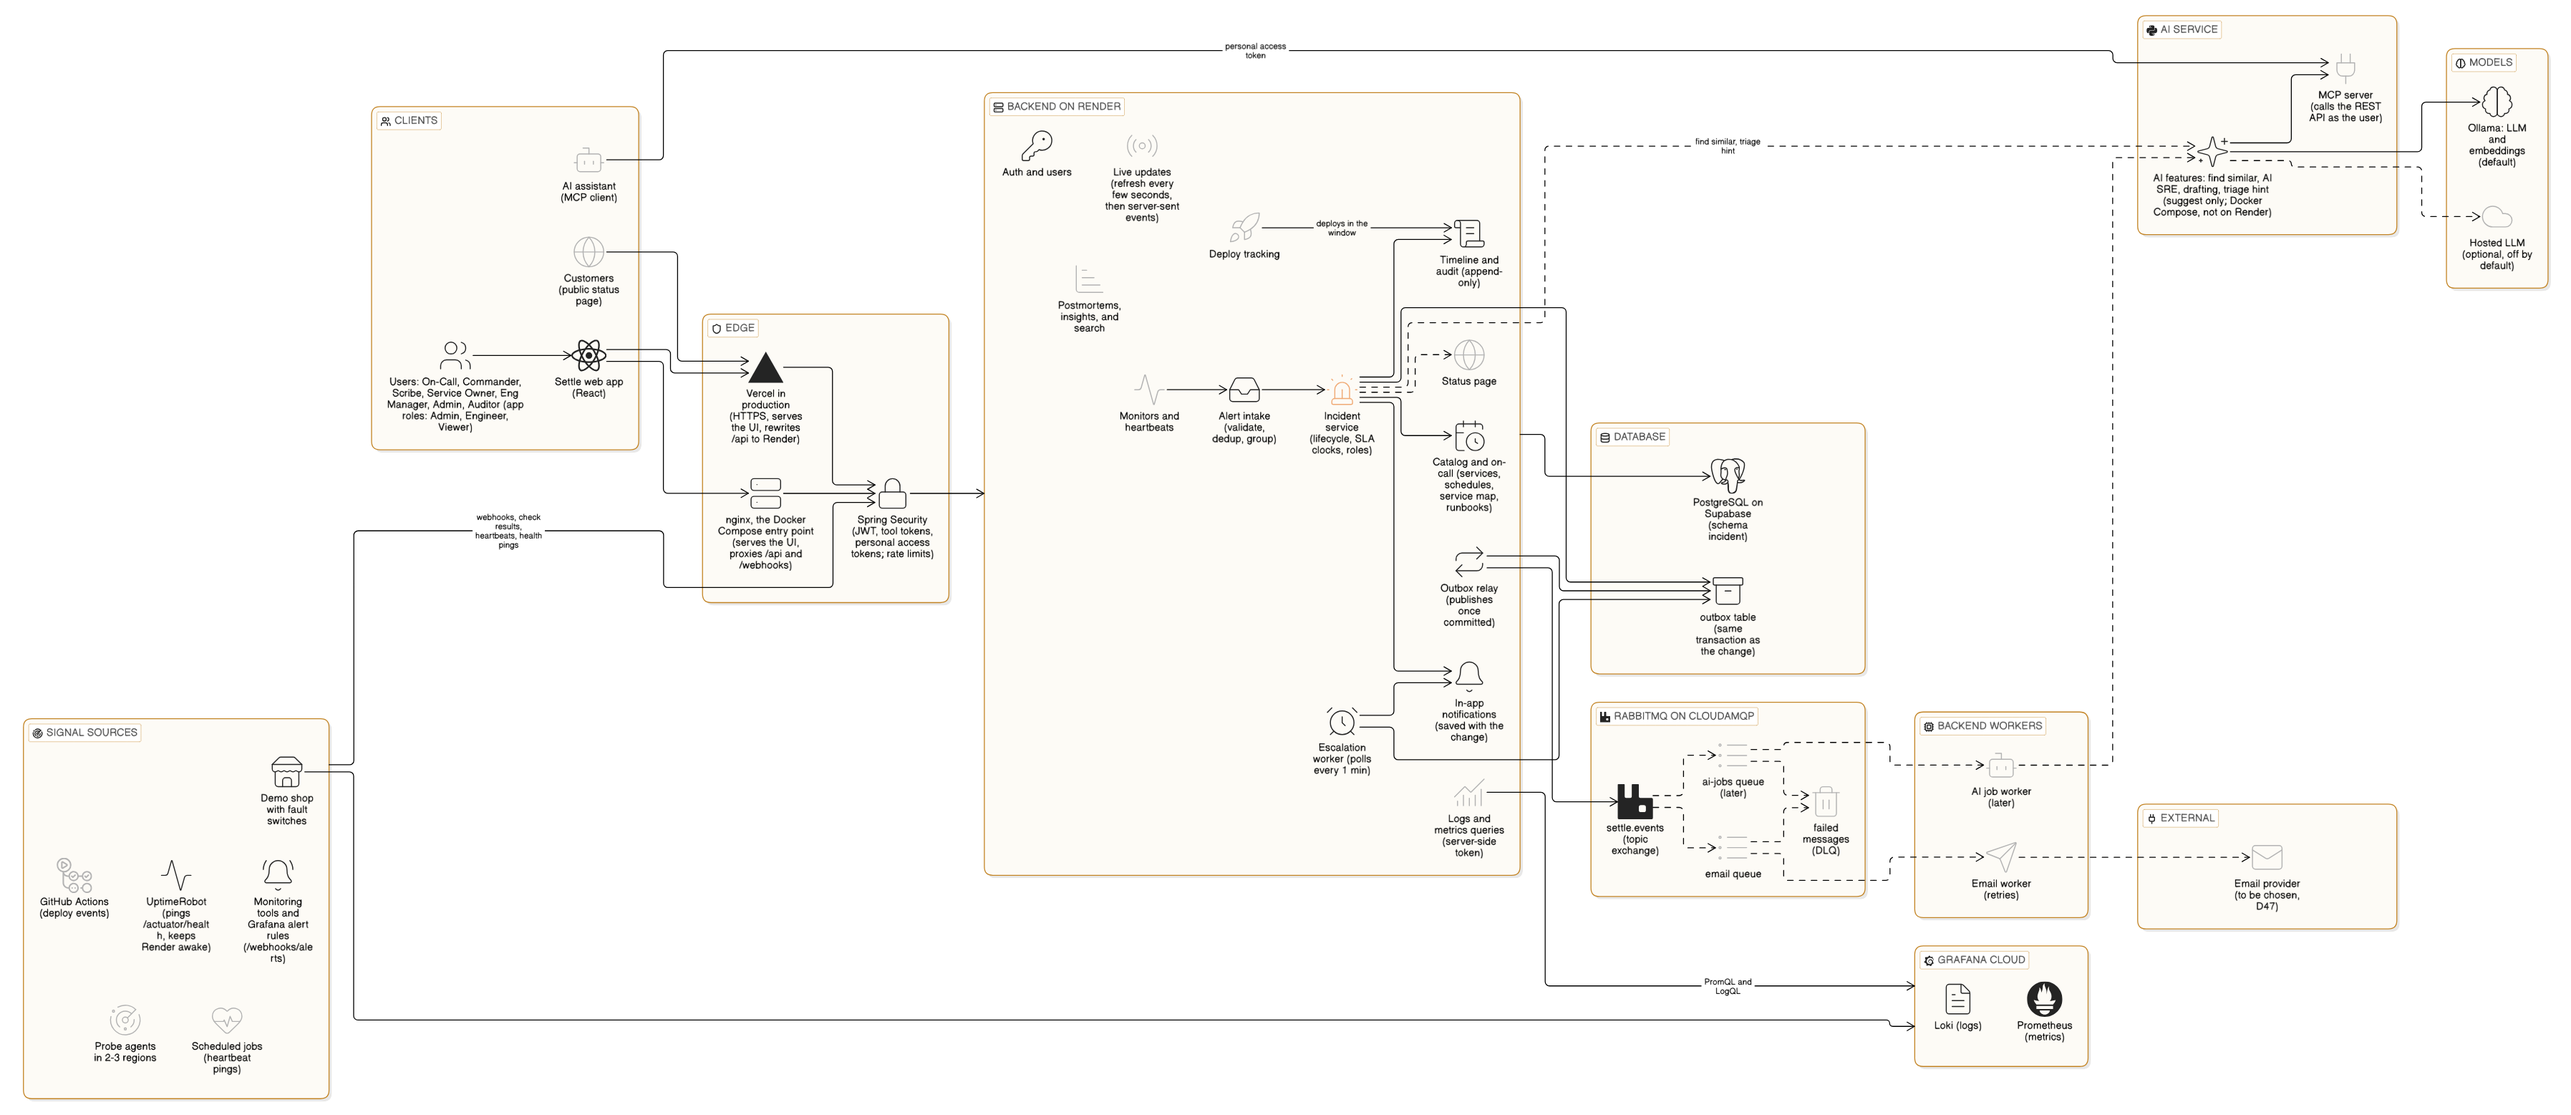
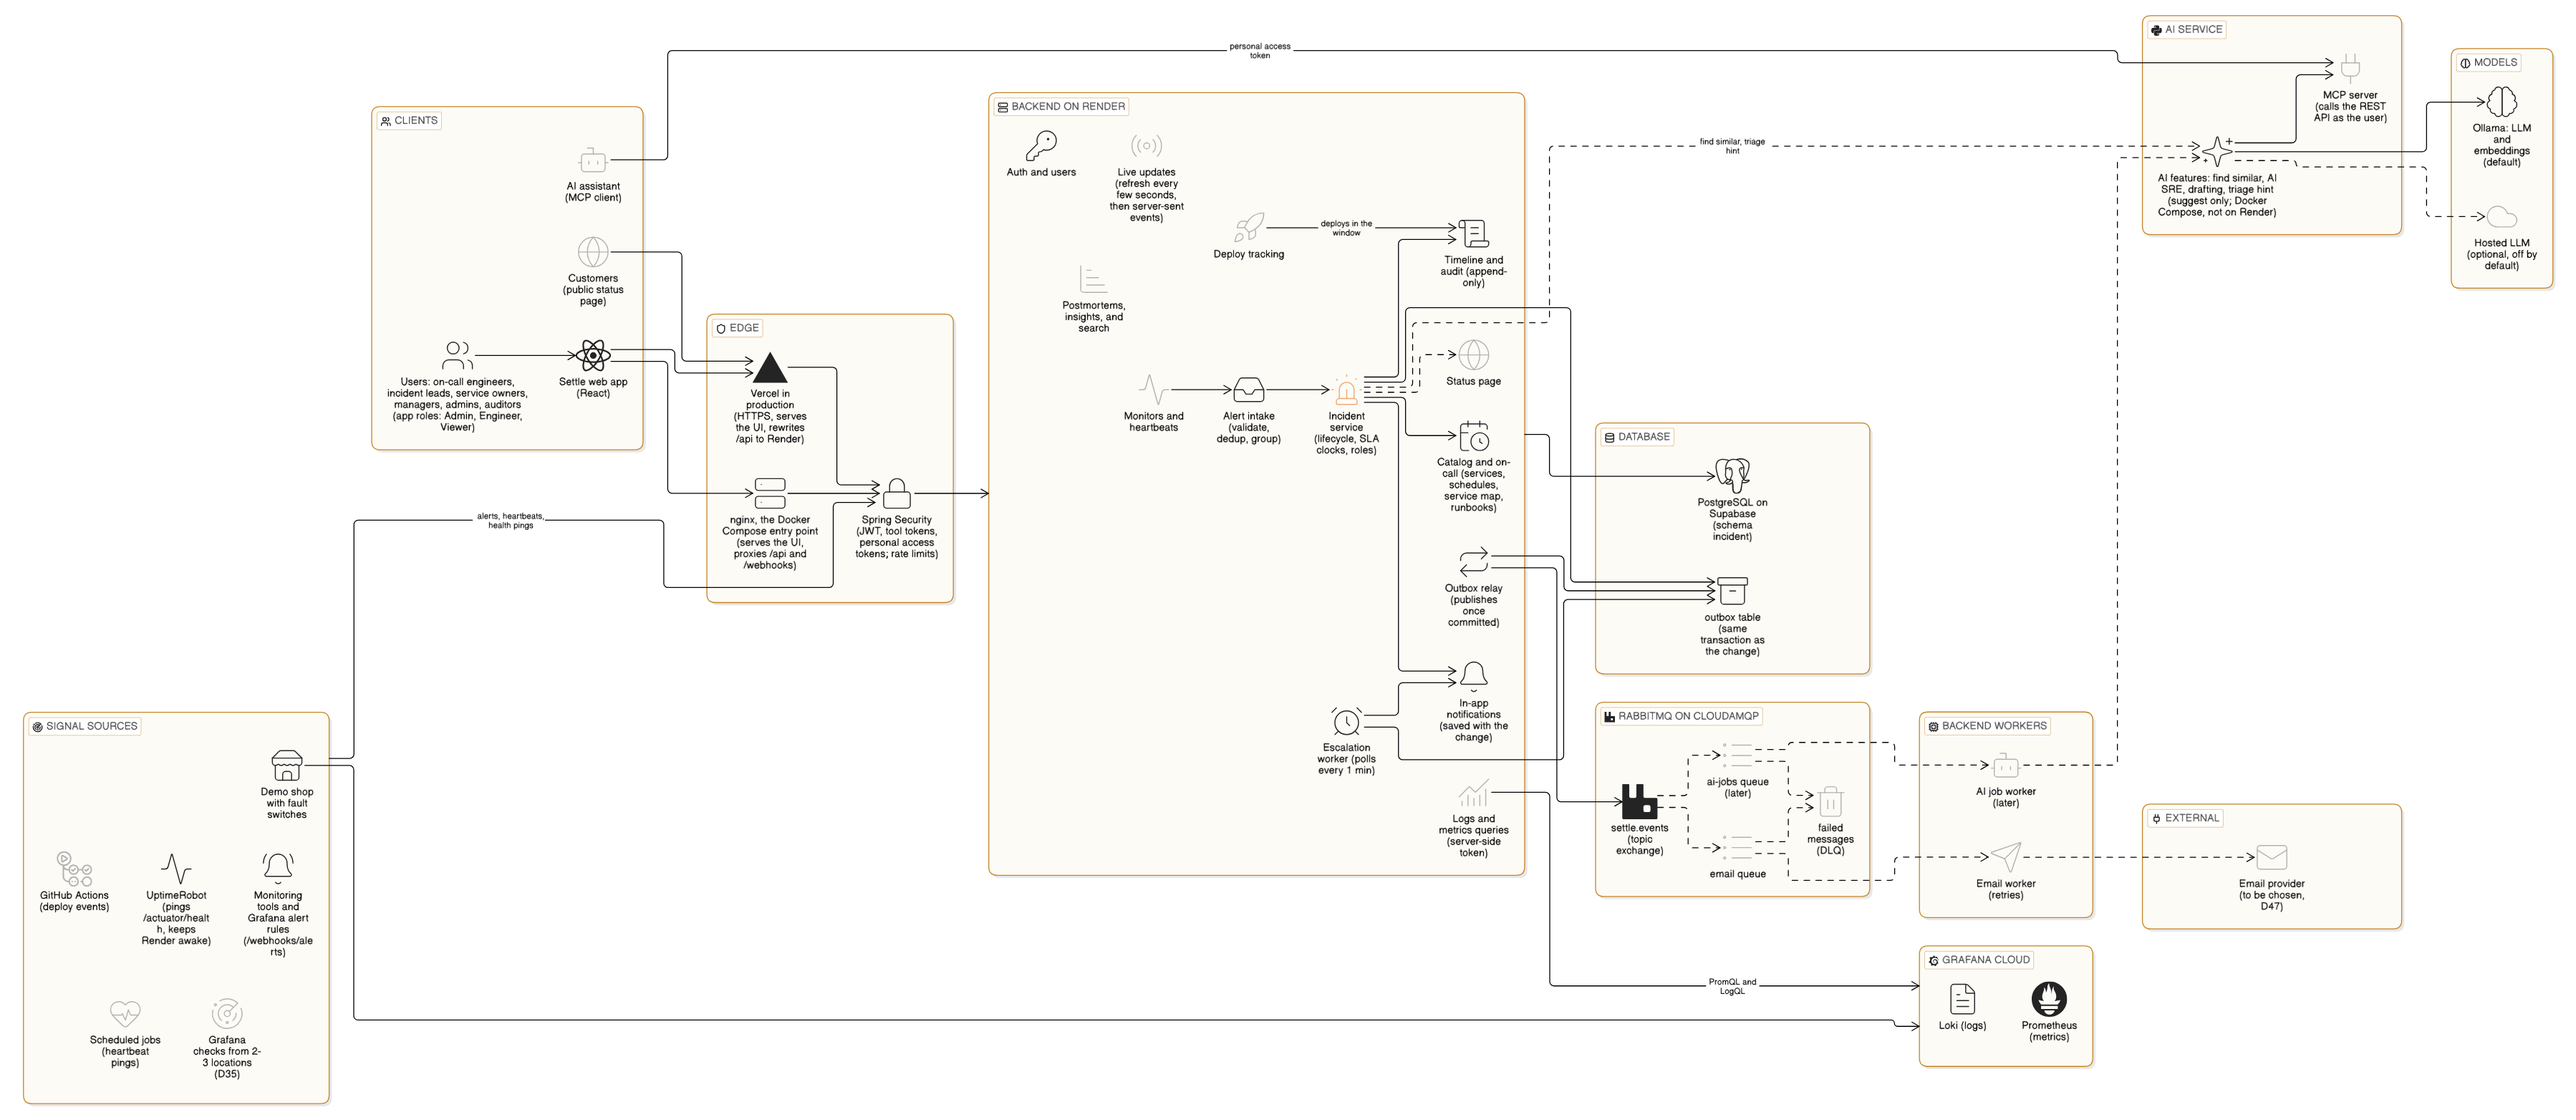
docs: show Grafana checks instead of probe agents in the HLD (D35), and drop the retired role names

diff --git a/docs/PROJECT_STRUCTURE.md b/docs/PROJECT_STRUCTURE.md
@@ -7,7 +7,7 @@ flowchart TD
   Browser[Settle UI: React on Vercel] -->|/api with JWT| Backend[Spring Boot backend on Render]
   Tools[Monitoring tools and Grafana alert rules] -->|/webhooks/alerts| Backend
   CI[CI pipelines] -->|/webhooks/deploys| Backend
-  Probes[Probe agents in 2-3 regions] -->|check results| Backend
+  Probes[Grafana checks from 2-3 locations] -->|alerts through Grafana alert rules| Backend
   Jobs[Scheduled jobs] -->|heartbeat pings| Backend
   Backend --> Database[(PostgreSQL on Supabase)]
   Backend -->|outbox| Queue[RabbitMQ: email; AI jobs later]
